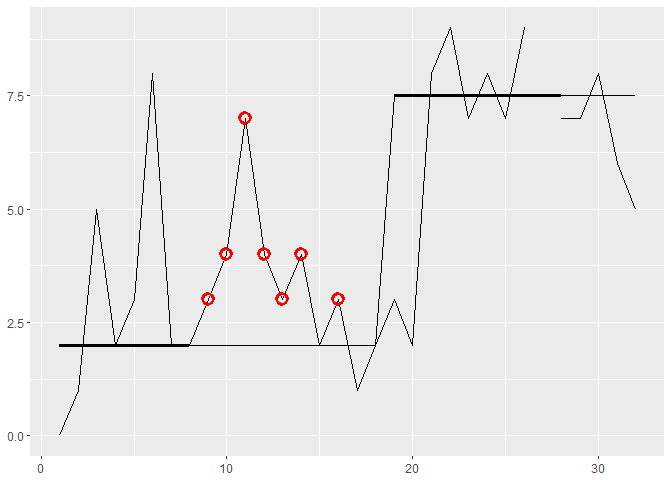
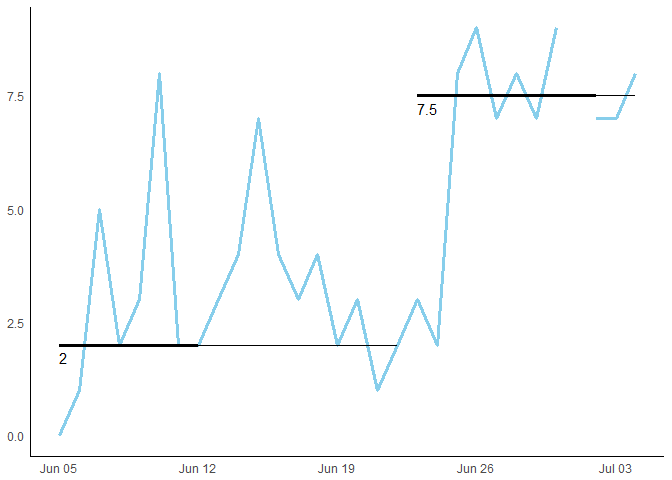
update README with new runchart() function

diff --git a/README.md b/README.md
@@ -3,36 +3,30 @@
 Please note
 -----------
 
-This package is under construction; functionality may change. If this project is of interest to you please get in touch; I'm keen to hear feedback and may be able to incorporate your specific needs into the package.
+This package is under construction and functionality may change. If this project is of interest please get in touch <josephadams@nhs.net>. I'm keen to hear feedback and I may be able to incorporate your specific needs into the package.
 
 Introduction
 ------------
 
 > Because they are simple to make and relatively straightforward to interpret, run charts are one of the most useful tools in quality improvement. - [NHS Scotland Quality Improvement Hub](http://www.qihub.scot.nhs.uk/knowledge-centre/quality-improvement-tools/run-chart.aspx).
 
-Run charts[1] are non-trivial to automate. A number of solutions exist in the healthcare improvement community in Scotland. However the author is only aware of small-scale solutions such as scripts and Excel macros.
+A number of R packages exist to automate statistical process control charts. For example:
 
-These kinds of approaches have the following limitations:
+-   [qicharts](https://cran.r-project.org/web/packages/qicharts/index.html)
+-   [qcc](https://cran.r-project.org/web/packages/qcc/index.html)
+-   [ggQC](https://cran.r-project.org/web/packages/ggQC/index.html)
 
--   Version control is cumbersome and unrealistic.
--   Adding a separate script to an existing workflow is inconvenient and error prone.
--   Scripts are often written to operate under specific conditions; making wider adoption unlikely.
--   Testing edge cases is a time consuming task which is replicated with each new script or macro.
+The `runchart` package is different from the above because it focusses solely on run charts and provides the ability to automatically rephase baselines. The package exports a single easy to use function `runchart()`.
 
-The `runchart` package aims to overcome these limitations by exporting a small number of easy to use and well tested functions.
+Examples
+--------
 
-Getting Started
----------------
-
-To download the package first ensure you are not behind a firewall or using a VPN[2]. Install the package using `install_github()`[3]:
-
-    devtools::install_github('josephjosephadams/runchart')
-
-The easiest place to start is with `rc_plot()`. This function takes a data frame with two columns: date and value:
+By default - shifts and trends are displayed (triggering at 6 and 5 consecutive points respectively) and the baseline is not rephased:
 
 ``` r
 library(runchart)
 library(ggplot2)
+library(tibble)
 
 n     <- 30
 date  <- seq.Date(Sys.Date(), by = "day", length.out = n)
@@ -41,10 +35,46 @@ value <- c(0,1,5,2,3,8,2,2,3,4,7,4,3,4,2,3,1,2,3,2,8,9,7,8,7,9,NA,7,7,8)
 df    <- data.frame(date  = date,
                     value = value)
 
-rc_plot(df)
+runchart(df)
 ```
 
 <img src="README-unnamed-chunk-2-1.png" style="display: block; margin: auto;" />
+
+Both shifts and trends can be independantly suppressed. The baseline can be rephased (triggering at 9 consecutive points):
+
+``` r
+runchart(df, shift = FALSE, trend = FALSE, rephase = TRUE)
+```
+
+<img src="README-unnamed-chunk-3-1.png" style="display: block; margin: auto;" />
+
+Access the fields behind these plots by setting the output parameter to `df`:
+
+``` r
+as_tibble(runchart(df, rephase = TRUE, output = 'df'))
+#> # A tibble: 30 × 10
+#>          date value  base base_ext base_label base1 base2 base_ext1
+#>        <date> <dbl> <dbl>    <dbl>      <dbl> <dbl> <dbl>     <dbl>
+#> 1  2017-06-05     0     2        2          2     2    NA         2
+#> 2  2017-06-06     1     2        2         NA     2    NA         2
+#> 3  2017-06-07     5     2        2         NA     2    NA         2
+#> 4  2017-06-08     2     2        2         NA     2    NA         2
+#> 5  2017-06-09     3     2        2         NA     2    NA         2
+#> 6  2017-06-10     8     2        2         NA     2    NA         2
+#> 7  2017-06-11     2     2        2         NA     2    NA         2
+#> 8  2017-06-12     2     2        2         NA     2    NA         2
+#> 9  2017-06-13     3    NA        2         NA    NA    NA         2
+#> 10 2017-06-14     4    NA        2         NA    NA    NA         2
+#> # ... with 20 more rows, and 2 more variables: base_ext2 <dbl>,
+#> #   shift <dbl>
+```
+
+Installation
+------------
+
+This package is available for download from GitHub:
+
+    devtools::install_github('josephjosephadams/runchart')
 
 ### Things to Notice
 
@@ -58,70 +88,4 @@ There are several behaviours to notice in the plot above:
 
 -   **Non-useful observations** are ignored. For example the 15th data point above lands exactly on the first baseline. Therefore it neither breaks nor contributes to the observed shift.
 
-The functions exported by the `runchart` package have been well tested using the `testthat` package to correctly handle such different scenarios and edge cases.
-
-### Accessing the Numbers
-
-If you need the fields that sit behind the run chart plot: use `rc_fields()`:
-
-``` r
-head(rc_fields(value))
-#>   base base_ext base_label shift val
-#> 1    2        2          2    NA   0
-#> 2    2        2         NA    NA   1
-#> 3    2        2         NA    NA   5
-#> 4    2        2         NA    NA   2
-#> 5    2        2         NA    NA   3
-#> 6    2        2         NA    NA   8
-```
-
-The columns `base` and `base_ext` are used for the thick and thin black lines in the plot above. The `base_label` column is used for labelling new baselines. The `shift` and `val` columns are used to plot shifts and the original data.
-
-Different Methodologies
------------------------
-
-There is no fixed methodology for creating run charts. Here are some functions which should help you apply a range of methodologies.
-
-### Single Baseline
-
-If you require a single baseline with shifts and trends, you can use the `basic_shift()` and `basic_trend()` functions:
-
-``` r
-
-value <- c(0,1,5,2,3,8,2,2,3,4,7,4,3,4,2,3,3,4,6,8,8,9,7,8,7,9,NA,7,7,8)
-base  <- median(value, na.rm = T)
-
-# `basic_shift()` and `basic_trend()` return the indices of shifts and trends
-shift       <- trend <- value*NA
-shift_index <- basic_shift(base = base, val = value)
-trend_index <- basic_trend(val = value)
-
-shift[shift_index] <- value[shift_index]
-trend[trend_index] <- value[trend_index]
-base  <- rep(base, length(value))
-
-rc_fields <- data.frame(date  = date,
-                        value = value,
-                        base  = base,
-                        shift = shift,
-                        trend = trend)
-
-ggplot(rc_fields, aes(date, value)) +
-  geom_line(colour = 'skyblue', size = 1.1) +
-  geom_line(aes(y = base)) +
-  geom_line(colour = 'blue', aes(y = trend), size = 1.1) +
-  geom_point(aes(y = shift), shape = 16, size = 2, colour = 'black',
-               stroke = 2) +
-  theme_classic() + theme(axis.title.x=element_blank(),
-                              axis.title.y=element_blank(),
-                              axis.ticks.x=element_blank(),
-                              axis.ticks.y=element_blank())
-```
-
-<img src="README-unnamed-chunk-4-1.png" style="display: block; margin: auto;" />
-
-[1] As defined by the NHS Scotland Quality Improvement Hub
-
-[2] These can block installation from GitHub
-
-[3] You may need to install the `devtools` package first.
+-   **Trends** are currently only available for fixed baselines (not rephased ones).
